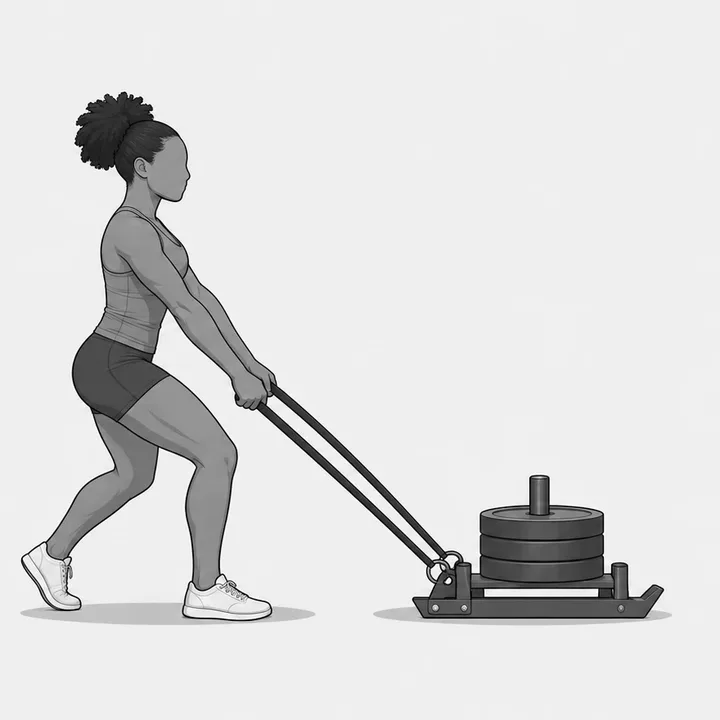
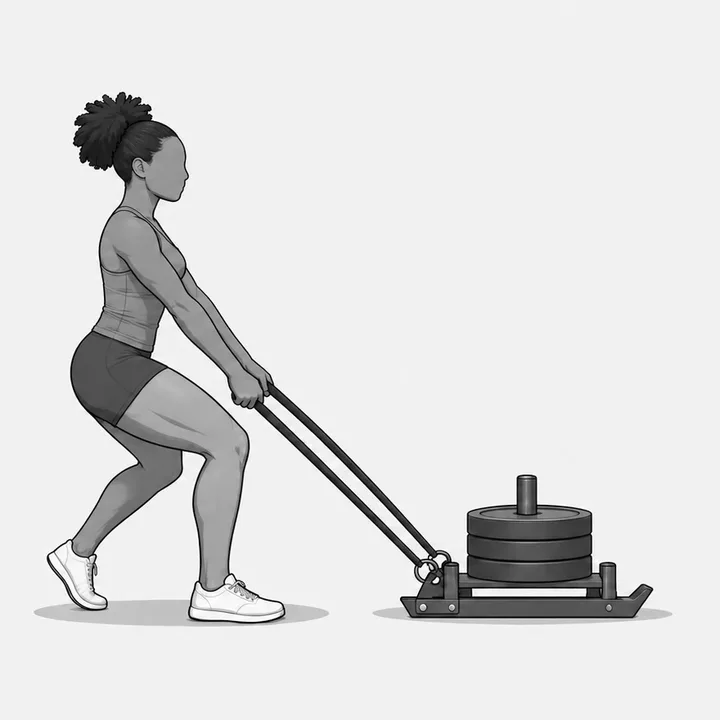
Updated backward sled drag pictures (#39)
Claude-Session: https://claude.ai/code/session_01HCo9xg2Dz1PNK3W5PEWkUx

diff --git a/public/sw.js b/public/sw.js
@@ -1,6 +1,6 @@
 // Offline support. The app is one file, so: page is network-first (new versions
 // arrive when online, cached copy opens offline); fonts and icons are cache-first.
-const CACHE = "hb-v4";
+const CACHE = "hb-v5";
 const SHELL = ["./", "./manifest.webmanifest", "./icon.svg", "./icon-192.png", "./apple-touch-icon.png"];
 
 self.addEventListener("install", e => {
